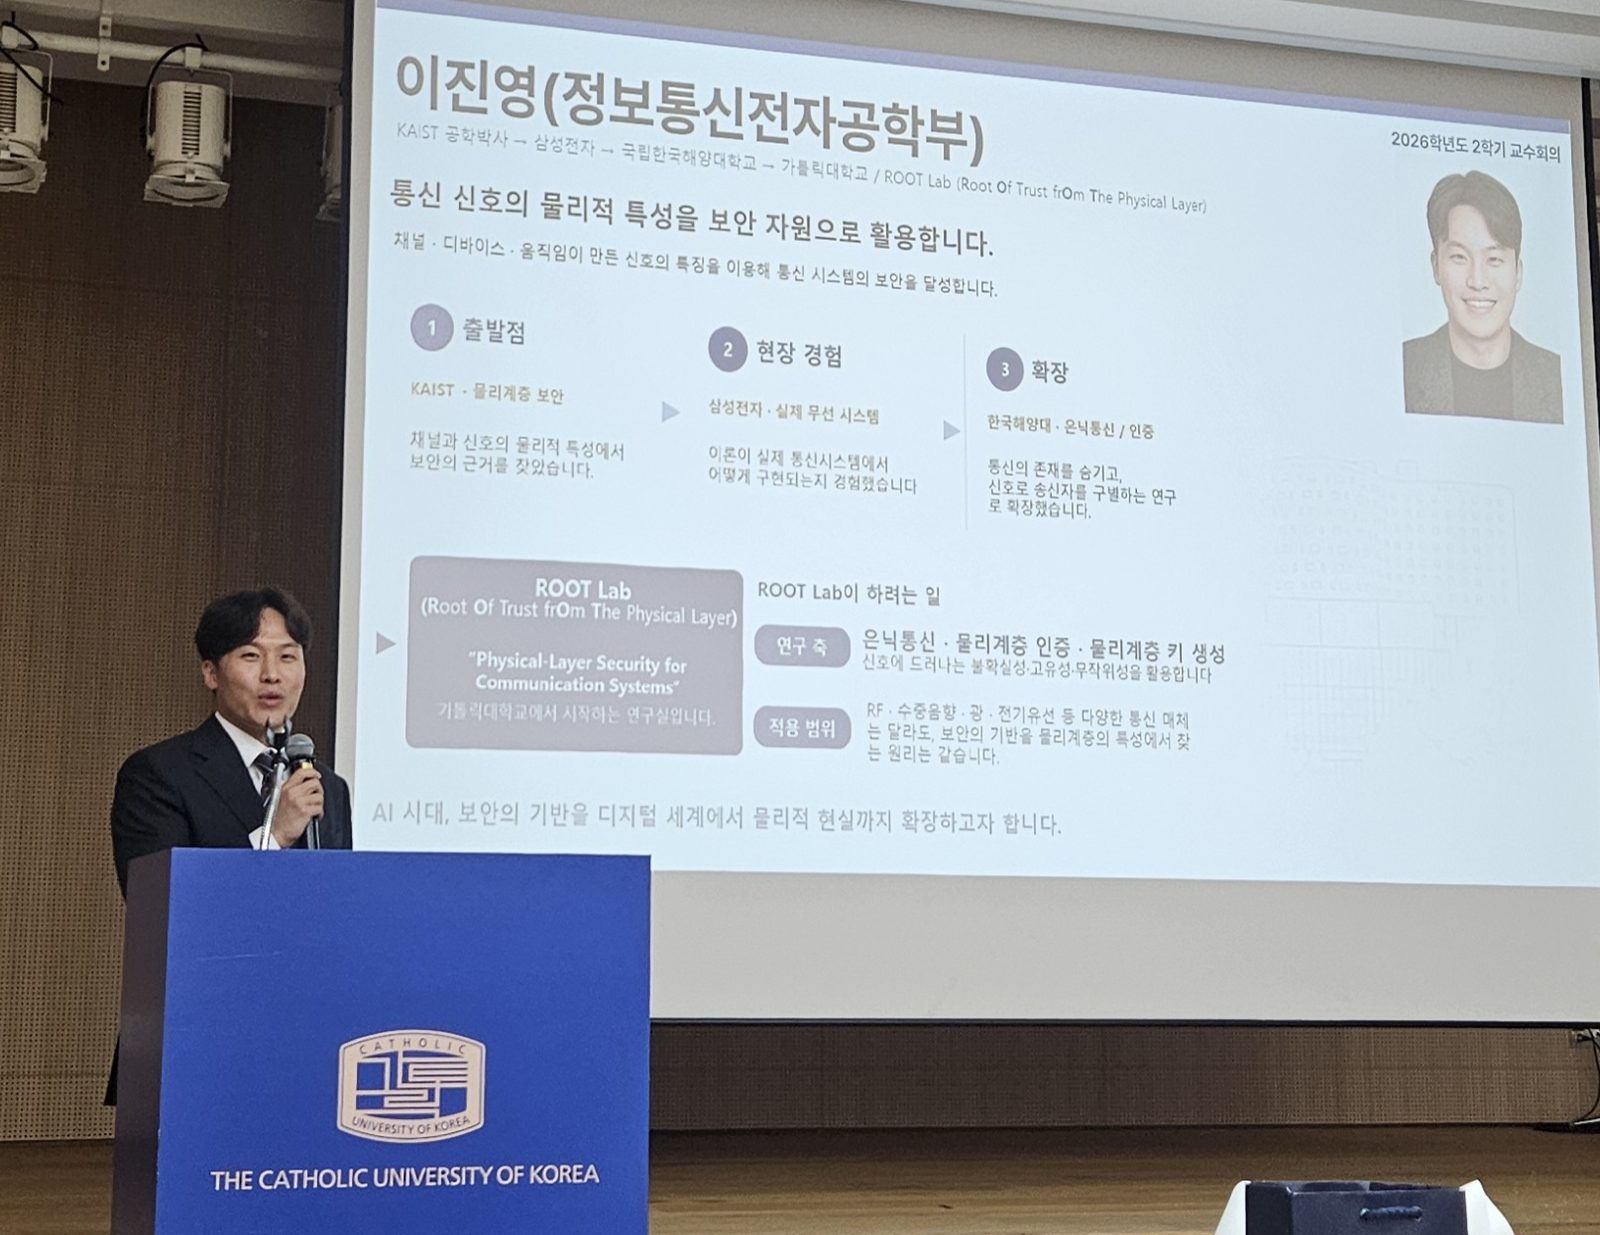
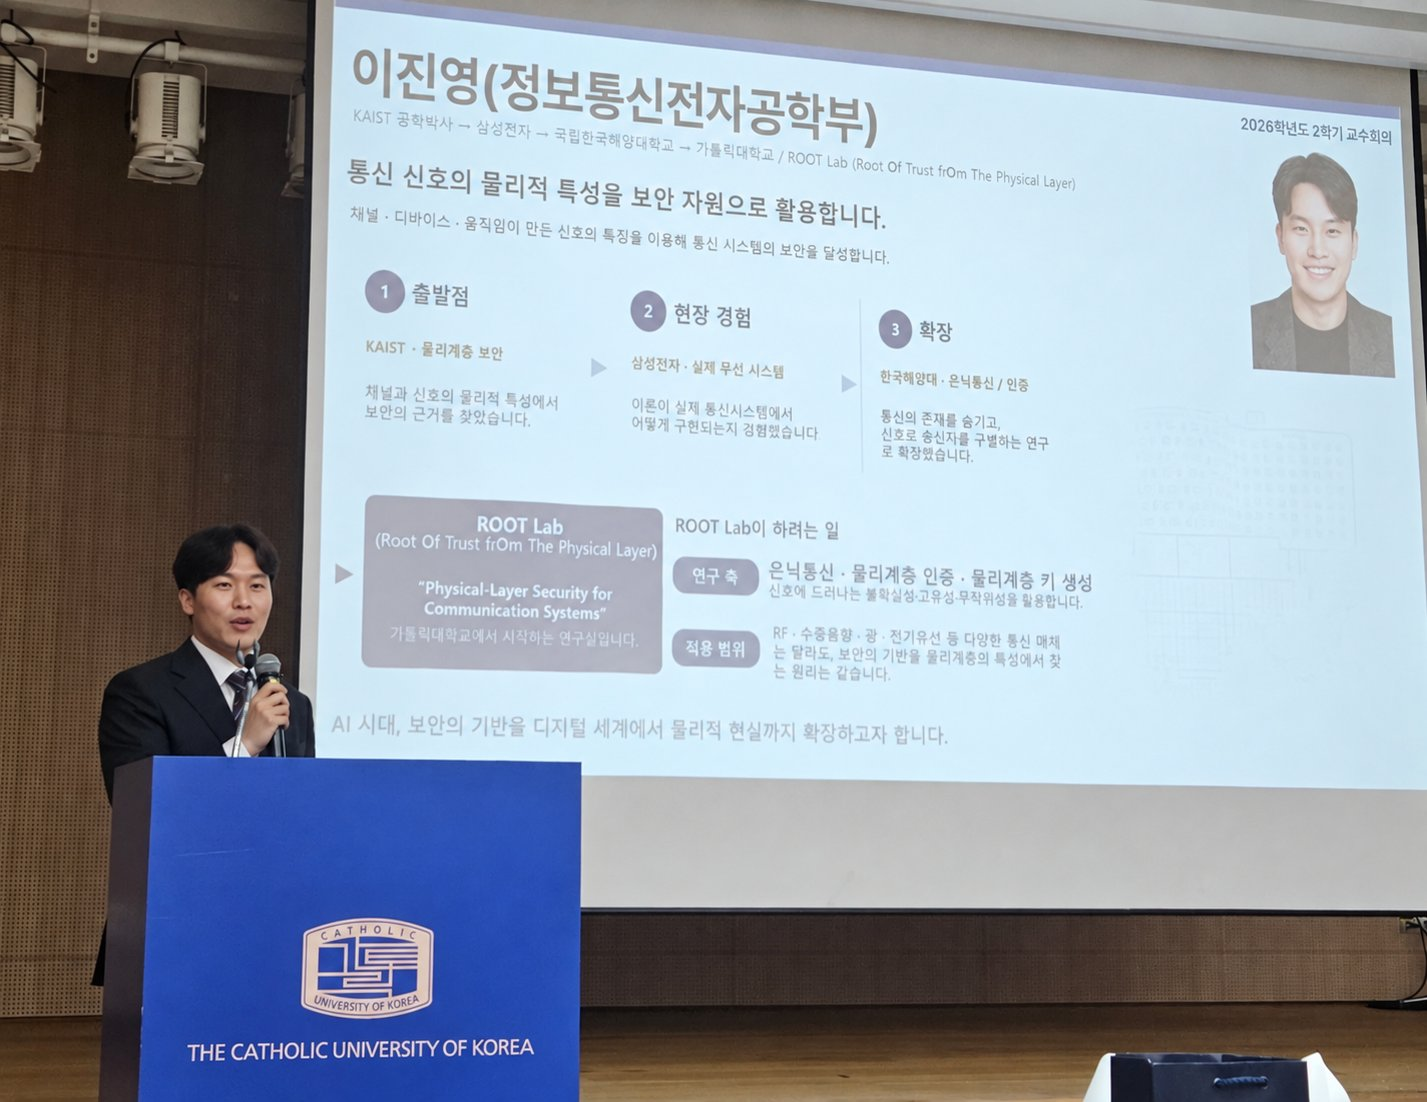
Replace the ROOT Lab introduction photo with the retouched PNG
Claude-Session: https://claude.ai/code/session_01GNcS1kmZvkTUuwnAtVXsAb

diff --git a/gallery.html b/gallery.html
@@ -22,7 +22,7 @@
 <figure class="gallery-item featured"><img src="assets/img/gallery/new-profs-2000.jpg" alt="Newly appointed faculty of The Catholic University of Korea at the 2026 fall-semester orientation" loading="lazy" width="2000" height="1333"><figcaption>New faculty orientation, Songsim Campus, Aug. 25–26, 2026</figcaption></figure>
 <figure class="gallery-item"><img src="assets/img/gallery/appointment-1600.jpg" alt="Jinyoung Lee at the new faculty appointment ceremony" loading="lazy" width="1600" height="1200"><figcaption>Appointment ceremony at the faculty meeting, Aug. 2026</figcaption></figure>
 <figure class="gallery-item"><img src="assets/img/gallery/appointment-letter-1600.jpg?v=2" alt="Jinyoung Lee with the President of The Catholic University of Korea, holding the letter of appointment" loading="lazy" width="1437" height="1095"><figcaption>Receiving the letter of appointment from the President, Aug. 2026</figcaption></figure>
-<figure class="gallery-item"><img src="assets/img/gallery/rootlab-intro-1600.jpg" alt="Jinyoung Lee introducing ROOT Lab at the faculty meeting" loading="lazy" width="1600" height="1235"><figcaption>Introducing ROOT Lab at the faculty meeting, Aug. 2026</figcaption></figure>
+<figure class="gallery-item"><img src="assets/img/gallery/rootlab-intro-1600.jpg?v=2" alt="Jinyoung Lee introducing ROOT Lab at the faculty meeting" loading="lazy" width="1427" height="1102"><figcaption>Introducing ROOT Lab at the faculty meeting, Aug. 2026</figcaption></figure>
 </div>
 </div>
 </div></section></main>

diff --git a/index.html b/index.html
@@ -112,7 +112,7 @@
           <img src="assets/img/gallery/new-profs-thumb.jpg" alt="New faculty orientation, Songsim Campus, 2026" loading="lazy" width="800" height="600">
           <img src="assets/img/gallery/appointment-thumb.jpg" alt="Appointment ceremony at the faculty meeting" loading="lazy" width="800" height="600">
           <img src="assets/img/gallery/appointment-letter-thumb.jpg?v=2" alt="Receiving the letter of appointment from the President" loading="lazy" width="800" height="600">
-          <img src="assets/img/gallery/rootlab-intro-thumb.jpg" alt="Introducing ROOT Lab at the faculty meeting" loading="lazy" width="800" height="600">
+          <img src="assets/img/gallery/rootlab-intro-thumb.jpg?v=2" alt="Introducing ROOT Lab at the faculty meeting" loading="lazy" width="800" height="600">
         </div>
       </a>
       <a class="more-link" href="gallery.html">See all photos</a>
